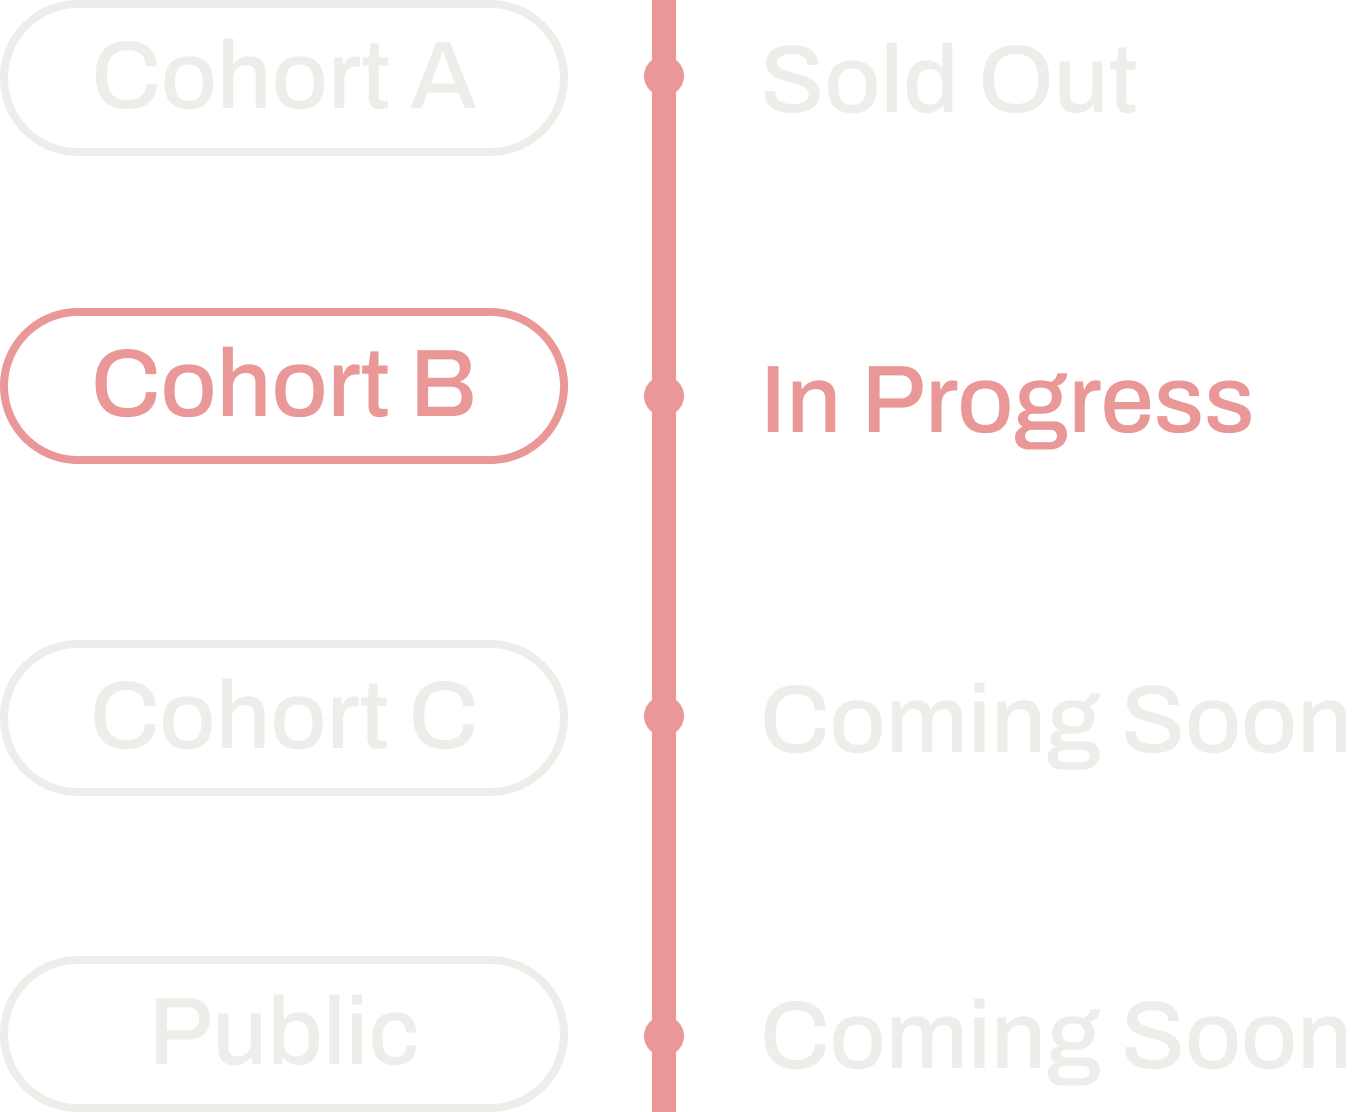
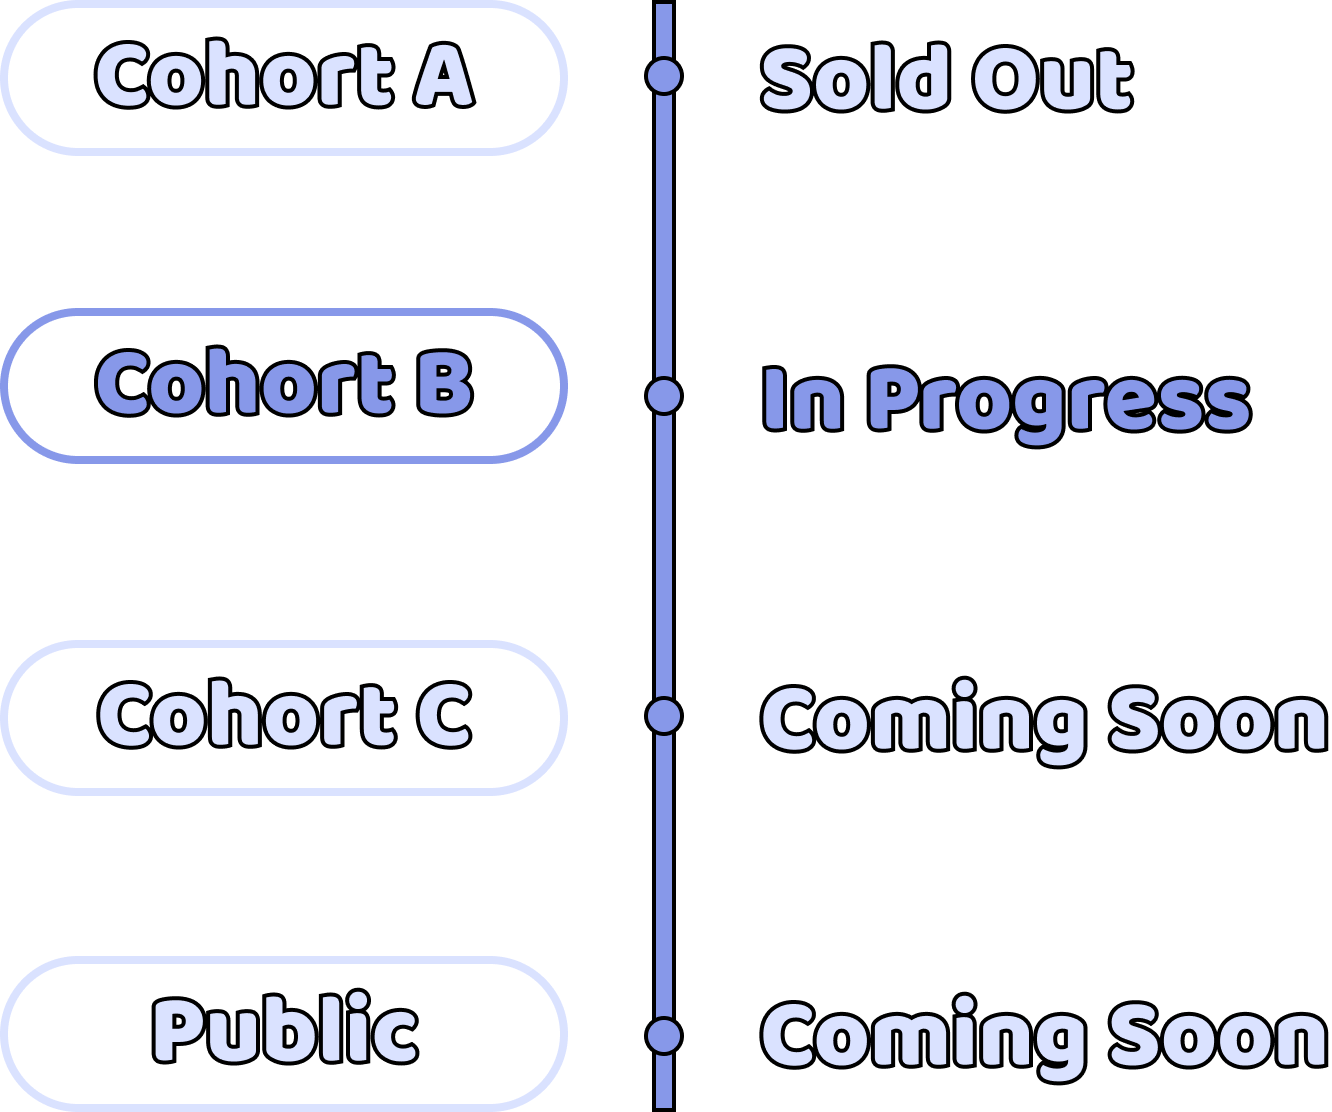
fix: minting page

diff --git a/src/pages/home/index.tsx b/src/pages/home/index.tsx
@@ -248,7 +248,7 @@ const Index: NextPage = () => {
 									<EmptyBlock h={150} />
 									<Div imgTag src={IMAGES.gomzInnovate} px40></Div>
 									<Div maxW={750} px40>
-										<Div textWhite textXl textLeft lineHeight={1.2} bungee>
+										<Div textWhite textXl textLeft lineHeight={1.2}>
 											We Are
 											<Div textPrimary>Innovators.</Div>
 										</Div>
@@ -262,7 +262,7 @@ const Index: NextPage = () => {
 									<EmptyBlock h={150} />
 									<Div imgTag src={IMAGES.gomzRebel} px40></Div>
 									<Div maxW={750} px40>
-										<Div textWhite textXl textLeft lineHeight={1.2} bungee>
+										<Div textWhite textXl textLeft lineHeight={1.2} >
 											We Are
 											<Div textPrimary>Rebels.</Div>
 										</Div>
@@ -522,7 +522,7 @@ const Index: NextPage = () => {
 										<Div imgTag src={IMAGES.gomzInnovate}></Div>
 									</Div>
 									<Div maxW={750} px40>
-										<Div textWhite text3xl textLeft lineHeight={1.2} bungee>
+										<Div textWhite text3xl textLeft lineHeight={1.2}>
 											We Are
 											<Div textPrimary>Innovators.</Div>
 										</Div>
@@ -535,43 +535,7 @@ const Index: NextPage = () => {
 									</Div>
 								</Div>
 								<EmptyBlock h={150} />
-								<Div maxW={1200} px40 flex flexRow mxAuto itemsCenter>
-									<Div maxW={750} px40>
-										<Div textWhite text3xl textLeft lineHeight={1.2} bungee>
-											We Are
-											<Div textPrimary>Rebels.</Div>
-										</Div>
-										<Div textLeft textWhite lineHeight={1.8} py10>
-											현재 수만개의 PFP 컬렉션이 존재하지만, 대부분 트위터 프로필 사진으로만 쓰여지고 있습니다. 해당 프로젝트에서는 GOMZ만의 Web 3.0
-											SNS인 BetterWorld 앱에서 홀더가 본인의 GOMZ에 인생을 부여하여 자신의 혁신가적인 “Web 3.0 부캐”를 직접 생성합니다. 부캐들의 SNS
-											활동, 네트워킹, 오디오 세션 등 홀더들은 GOMZ로서 마음껏 활동하고 교류하며 서로 상생하고 발전할 수 있는 프로그램에 함께하고
-											다양한 보상을 받습니다. GOMZ를 보유하는 누구든 혁신에 앞장설 수 있습니다.
-										</Div>
-									</Div>
-									<Div flex1>
-										<Div imgTag src={IMAGES.gomzRebel}></Div>
-									</Div>
-								</Div>
-								<EmptyBlock h={150} />
-								<Div maxW={1200} px40 flex flexRow mxAuto itemsCenter>
-									<Div flex1>
-										<Div imgTag src={IMAGES.gomzStore}></Div>
-									</Div>
-									<Div maxW={750} px40>
-										<Div textWhite text3xl textLeft lineHeight={1.2} bungee>
-											We Are
-											<Div textPrimary>Amigos.</Div>
-										</Div>
-										<Div textLeft textWhite lineHeight={1.8} py10>
-											GOMZ는 Web 3.0 의 잠재력을 높게 사고있습니다. 하지만, Web 3의 잠재력은 더 많은 사람들이 일상생활에서 이를 이용할 수 있을 때
-											극대화될 수 있습니다. 따라서 GOMZ는 사회에 더 큰 영향을 미치는 실질적이고 사회적인 가치를 제공함으로써 더 많은 사람들과
-											함께합니다. 그 첫 번째 파트너는 코로나 여파로부터 회복하고 있는 소상공인으로, 다양한 지역의 소상공인과 공생 관계를 맺어 돕고,
-											음식점, 카페 할인 등 홀더들의 오프라인 혜택 또한 극대화합니다. 머지않아 GOMZ는 곧 당신 일상의 일부가 될 것입니다.
-										</Div>
-									</Div>
-								</Div>
-								<EmptyBlock h={150} />
-								<Div textCenter bungee textSecondary text3xl>
+								<Div textCenter textSecondary text3xl>
 									Mileage
 								</Div>
 								<EmptyBlock h={50} />
@@ -604,13 +568,13 @@ const Index: NextPage = () => {
 									</Div>
 								</Div>
 								<EmptyBlock h={200} />
-								<Div textCenter bungee textSecondary text3xl>
+								<Div textCenter textSecondary text3xl>
 									First 8{" "}
 									<Div spanTag textWhite>
 										WeBe
 									</Div>
 								</Div>
-								<Div textCenter bungee textSecondary2 text2xl>
+								<Div textCenter textSecondary2 text2xl>
 									Departing for{" "}
 									<Div spanTag textSecondary>
 										BetterWorld
@@ -634,7 +598,7 @@ const Index: NextPage = () => {
 									})}
 								</Div>
 								<EmptyBlock h={200} />
-								<Div textCenter bungee textSecondary text3xl
+								<Div textCenter textSecondary text3xl
 								style={{textShadow: "8px 8px 0px rgba(0, 0, 0, 0.25)"}}>
 									FAQS
 								</Div>
@@ -682,7 +646,7 @@ function Faq({ question, answer, isTablet }) {
 	return (
 		<Div textWhite my10 onClick={() => setClicked((prev) => !prev)} cursorPointer>
 			<Row textXl py20 borderB1 borderWhite itemsEnd fontThin>
-				<Col auto bungee fontSize36 ml40 style={{textShadow:"1px 4px 0px rgba(0, 0, 0, 0.25)"}}>
+				<Col auto fontSize36 ml40 style={{textShadow:"1px 4px 0px rgba(0, 0, 0, 0.25)"}}>
 					Q.{" "}
 				</Col>
 				<Col>{question}</Col>
@@ -690,7 +654,7 @@ function Faq({ question, answer, isTablet }) {
 			</Row>
 			{clicked && (
 				<Row textXl py20 fontThin>
-					<Col auto bungee textSecondary fontSize36 ml40 style={{textShadow:"1px 4px 0px rgba(0, 0, 0, 0.25)"}}>
+					<Col auto textSecondary fontSize36 ml40 style={{textShadow:"1px 4px 0px rgba(0, 0, 0, 0.25)"}}>
 						A.{" "}
 					</Col>
 					<Col textLg maxW={775} flex itemsEnd>{answer}</Col>

diff --git a/src/pages/index.tsx b/src/pages/index.tsx
@@ -18,6 +18,9 @@ const Index: NextPage = () => {
 	const handleClickHome = () => {
 		href(urls.home.index)
 	};
+	const handleClickMint = () => {
+		href(urls.mint.index)	
+	}
 	useEffect(() => {
 		if (mainImage == IMAGES.gomzMainAstronautGif) {
 			const timeout = setTimeout(() => href(urls.home.index), 6500);
@@ -47,7 +50,7 @@ const Index: NextPage = () => {
 								hFull
 								style={{background: "rgba(237, 238, 233, 0.96)"}}
 								>
-									<Div mt90 ml35 textPrimary fontSize32 fontSemibold>
+									<Div mt90 ml35 textPrimary fontSize32>
 										<Div flex mb38 itemsCenter aTag href={"https://soonilabs.notion.site/GOMZ-9708c13f69c94ed39672ac8c1b7b8e12"}>
 											<Div w30 imgTag src={IMAGES.logos.webePrimaryIcon}></Div>
 											<Div ml18>Public Docs</Div>
@@ -113,7 +116,7 @@ const Index: NextPage = () => {
 								</Div>
 							</Div>
 							<Div mx10 clx={"hover:opacity-50"} cursorPointer aTag href={"https://betterworldapp.io"}>
-								<Div imgTag src={IMAGES.logos.betterWorldSecondary} h20 wAuto></Div>
+								<Div imgTag src={IMAGES.logos.betterWorld} h20 wAuto></Div>
 							</Div>
 							<Div mx10 textSecondary2 clx={"hover:opacity-50"} cursorPointer aTag href={"https://discord.com/invite/7tV3WxWf8p"}>
 								<FaDiscord size={30} />
@@ -127,16 +130,17 @@ const Index: NextPage = () => {
 						</Div>
 				</Div>
 				<Div flex hFull relative>
-					<Div flexCol z100 ml200 mt120>
-						<Div w330 imgTag src={IMAGES.logos.webeWhiteLogo}></Div>
+					<Div flexCol z100 ml200 mt100>
+						<Div w300 imgTag src={IMAGES.logos.webeWhiteLogo}></Div>
 						<Div mt35 textLeft fontSize25 textSecondary2 leadingTight>
-							Dedicated to global innovators,<br></br>party heads, and Web 3 enthusiasts</Div>
-						<Div mt35 clx={"hover:opacity-50"} w140 bgSecondary roundedFull px40 py8 fontSize25 textWhite borderBlack border1>
+							Cultural franchise dedicated to global innovators,<br></br>party heads, and Web 3 enthusiasts</Div>
+						<Div mt35 clx={"hover:opacity-50"} w140 bgSecondary roundedFull px40 py8 fontSize25 textWhite borderBlack border1
+						onClick={handleClickMint} cursorPointer>
 							MINT</Div>
 						<Div mt45 w250 imgTag src={IMAGES. mintingProcess}></Div>
 					</Div>
-					<Div ml200 mt120 mb40 imgTag src={IMAGES.gomzMainAstronaut} cursorPointer onClick={handleClickHome}></Div>
-						<Div absolute w150 top200 right150 textSecondary2>
+					<Div absolute w350 top110 right250 z999 imgTag src={IMAGES.gomzMainAstronaut} cursorPointer onClick={handleClickHome}></Div>
+						<Div absolute top200 right100 textSecondary2 textXl>
 							Click Me To Enter!
 						</Div>
 				</Div>

diff --git a/src/pages/mint/index.tsx b/src/pages/mint/index.tsx
@@ -1,10 +1,13 @@
 import type { NextPage } from "next";
-import { FaArrowAltCircleLeft, FaArrowCircleLeft, FaArrowLeft, FaLongArrowAltLeft, FaRegArrowAltCircleLeft } from "react-icons/fa";
-import BasicHead from "src/components/BasicHead";
 import Div from "src/components/Div";
 import { IMAGES } from "src/modules/images";
+import { href } from "src/modules/routeHelper";
+import { urls } from "src/modules/urls";
 
 const Index: NextPage = () => {
+    const handleClickGomz = () => {
+		href(urls.index);
+	};
     return (
         <Div
             style={{
@@ -13,13 +16,13 @@ const Index: NextPage = () => {
 			relative
 			hScreen>
             <Div wFull h110 bgPrimary flex itemsCenter z2 borderB1 borderBlack style={{webkitTextStroke: "1px #000",}}>
-                <Div ml250 w200 h50 imgTag src={IMAGES.logos.webeWhiteLogo}></Div>
+                <Div ml250 w200 hAuto imgTag src={IMAGES.logos.webeWhiteLogo}></Div>
                 <Div ml20 textWhite text3xl>Air</Div>
-                <Div ml500 textWhite fontSize32>OnBoarding Pass</Div>
+                <Div absolute right150 textWhite fontSize32>OnBoarding Pass</Div>
             </Div>
             <Div wFull h10 z1 bgSecondary borderB1 borderBlack></Div>
             <Div flex overMono fontSize25>
-                <Div my250 ml90 w50 h50 imgTag src={IMAGES.circleLeftArrow}></Div>
+                <Div my250 ml90 w50 h50 imgTag src={IMAGES.circleLeftArrow} onClick={handleClickGomz} cursorPointer></Div>
                 <Div ml100 my120>
                     <Div flex>
                         <Div mr20>WALLET ADDRESS:</Div>
@@ -38,8 +41,8 @@ const Index: NextPage = () => {
                     </Div>
                     <Div mt40>AVAILABLE SEATS:</Div>
                 </Div>
-                <Div absolute top420 right240 borderDashed border1 w550 h0 rotate90 borderBlack></Div>
-                <Div ml190 my80>
+                <Div absolute top410 right240 borderDashed border1 w540 h0 rotate90 borderBlack></Div>
+                <Div absolute top205 right110>
                     <Div flex mt40>
                         <Div mr20>PRICE:</Div>
                         <Div fontBold>150 KLAY</Div>

diff --git a/src/components/common/MainTopBar.tsx b/src/components/common/MainTopBar.tsx
@@ -18,7 +18,7 @@ function MainTopBar() {
 			<Div wFull>
 				<Div flex py20 px20>
 					<Div onClick={handleClickGomz} cursorPointer>
-						<Div maxW={30} clx={"hover:animate-pulse"}>
+						<Div maxW={30}>
 							<Div imgTag src={IMAGES.logos.main}></Div>
 						</Div>
 					</Div>
@@ -51,7 +51,7 @@ function MainTopBar() {
 		);
 	}
 	return (
-		<Div absolute top0 wFull z200 flex px80 mt40>
+		<Div absolute top0 wFull z200 flex px80 mt40 style={{webkitTextStroke: "1px #000"}}>
 			<Div flex1></Div>
 			<Div flex flexRow itemsCenter>
 				<Div absolute left80 w100 imgTag src={IMAGES.logos.webeWhiteLogo} onClick={handleClickGomz} cursorPointer></Div>
@@ -63,17 +63,17 @@ function MainTopBar() {
 				aTag
 				href={"https://soonilabs.notion.site/GOMZ-9708c13f69c94ed39672ac8c1b7b8e12"}
 			>
-					<Div roundedFull bgSecondary textWhite py4 px18 fontSize12 trackingWidest>
+					<Div roundedFull bgSecondary textWhite py4 px18 fontSize12 trackingWidest style={{webkitTextStroke: "1px #000"}}>
 					Public Docs
 					</Div>
 				</Div>
 				<Div mx10 clx={"hover:opacity-50"} cursorPointer aTag href={"https://betterworldapp.io"}>
 					<Div imgTag src={IMAGES.logos.betterWorld} h20 wAuto></Div>
 				</Div>
-				<Div mx10 textWhite clx={"hover:opacity-50"} cursorPointer aTag href={"https://discord.com/invite/7tV3WxWf8p"}>
+				<Div mx10 textSecondary2 clx={"hover:opacity-50"} cursorPointer aTag href={"https://discord.com/invite/7tV3WxWf8p"}>
 					<FaDiscord size={30} />
 				</Div>
-				<Div mx10 textWhite clx={"hover:opacity-50"} cursorPointer aTag href={"https://twitter.com/officialgomz"}>
+				<Div mx10 textSecondary2 clx={"hover:opacity-50"} cursorPointer aTag href={"https://twitter.com/officialgomz"}>
 					<FaTwitter size={25} />
 				</Div>
 				<Div mx10 textSm textSecondary={nextLocale==LOCALES.KO} textWhite={nextLocale!=LOCALES.KO} clx={"hover:opacity-50"} cursorPointer onClick={() => reloadWithLocale(LOCALES.KO)}>KOR</Div>

diff --git a/src/modules/urls.ts b/src/modules/urls.ts
@@ -1,15 +1,9 @@
 export const urls = {
     index: '/',
-    values: {
-        index: '/home#values'
-    },
-    journey: {
-        index: '/journey'
-    },
-    gallery: {
-        index: '/gallery'
-    },
     home: {
         index: '/home'
+    },
+    mint: {
+        index: '/mint'
     }
 }
